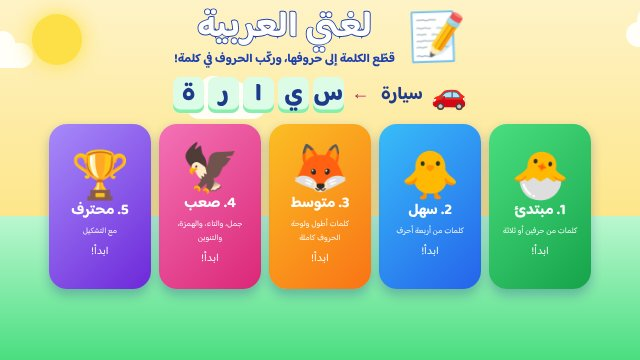
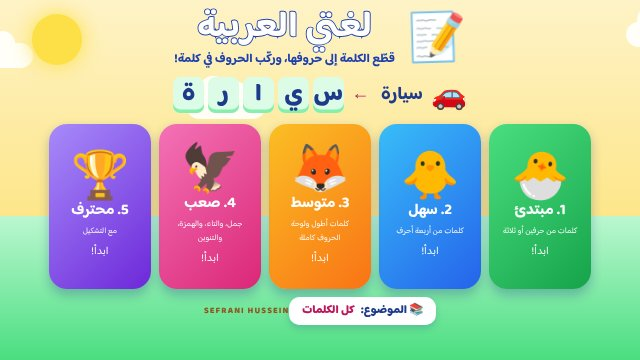
البند 59: مواضيع «لغتي العربية» و«كلماتي» و«أسماء عائلتي» واسم الصانع
- المواضيع: الأيام، الأشهر الميلادية والهجرية، الفصول والأوقات، الأماكن، الاتجاهات، الألوان، الأرقام، العائلة
- «كلماتي»: صور العائلة في مجلد اللعبة باسم الكلمة؛ تبقى بعد التحديث ولا تُحسب تعديلاً (bundled.USER_DIRS)
- «أسماء عائلتي»: اسم الطفل والأشخاص المسمَّون في الصور مع وجوههم
- SEFRANI HUSSEIN في الشاشة الأولى

Claude-Session: https://claude.ai/code/session_01ByJ6XoLmbzgjrffNWRRsuX

Changed region(s): [[0.3125, 0.825, 0.6875, 0.9167]]

diff --git a/home-nas/games/لغتي العربية/game.js b/home-nas/games/لغتي العربية/game.js
@@ -7,13 +7,15 @@
   "use strict";
   const GAME = "لغتي العربية";
   const D = window.LUGHATI;
-  const save = K.store("lughati", { best: {}, done: {}, lv: 0 });
+  const save = K.store("lughati", { best: {}, done: {}, lv: 0, topic: "all" });
+  const AUTHOR = "SEFRANI HUSSEIN";
 
   // ---------------------------------------------------------------- الحروف والتشكيل
   const MARKS = "ًٌٍَُِّْ";          // ً ٌ ٍ َ ُ ِ ّ ْ
   const isMark = (c) => MARKS.includes(c);
   const HAMZA = "أإآءؤئ";
   const BASIC = "ا ب ت ث ج ح خ د ذ ر ز س ش ص ض ط ظ ع غ ف ق ك ل م ن ه و ي ة ى".split(" ");
+  const ORDER = BASIC.concat([..."أإآءؤئ"]);
   const MARK_KEYS = ["َ", "ُ", "ِ", "ْ", "ّ", "ً", "ٌ", "ٍ"];
   const NAME = {
     "ا": "أَلِف", "ب": "بَاء", "ت": "تَاء", "ث": "ثَاء", "ج": "جِيم", "ح": "حَاء", "خ": "خَاء", "د": "دَال", "ذ": "ذَال",
@@ -64,6 +66,39 @@
     return out;
   }
 
+  // الصورة: رمز ملون، أو صورة حقيقية (كلماتي، ووجوه العائلة)
+  const pic = (w) => (w[1] && /^(\/|[^\s]+\.(jpe?g|png|webp|gif)$|كلماتي\/)/i.test(w[1])
+    ? `<img class="pic photo" src="${K.esc(w[1])}" alt="">` : `<span class="emo pic">${w[1] || "💬"}</span>`);
+
+  // ---------------------------------------------------------------- المواضيع (البند 59)
+  const TOPICS = [["all", "كل الكلمات", "📚"], ...Object.entries(D.topics).map(([k, t]) => [k, t.n, t.e]),
+    ["people", "أسماء عائلتي", "🙂"], ["mine", "كلماتي", "🖼"]];
+  const topicName = (id) => (TOPICS.find((t) => t[0] === id) || TOPICS[0])[1];
+  const okWord = (s) => /^[\u0621-\u064A\u064B-\u0652 ]+$/.test(s) && strip(s).replace(/ /g, "").length >= 2;
+  async function topicWords(id) {
+    if (D.topics[id]) return D.topics[id].words;
+    if (id === "mine") {        // صور في مجلد «كلماتي» داخل مجلد اللعبة، واسم الصورة هو الكلمة
+      const ims = await K.listImages("كلماتي");
+      return ims.map((x) => [x.name.replace(/\.[^.]+$/, "").replace(/[_-]+/g, " ").trim(), x.url]).filter((w) => okWord(w[0]));
+    }
+    if (id === "people") {      // اسم الطفل، والأشخاص الذين سمّاهم الأهل في «الصور ← الأشخاص»
+      const out = [];
+      try { const r = await fetch("/api/tv/home", { credentials: "same-origin" }); if (r.ok) { const n = ((await r.json()).user || {}).name || ""; const f = n.trim().split(/\s+/)[0]; if (okWord(f)) out.push([f, "⭐"]); } } catch {}
+      try { const r = await fetch("/api/tv/family/people?limit=30&faces=1", { credentials: "same-origin" });
+        if (r.ok) for (const x of (await r.json()).people || []) if (okWord(x.name.trim()) && !out.some((w) => w[0] === x.name.trim())) out.push([x.name.trim(), `/api/tv/face/${x.faces[0]}`]); } catch {}
+      return out;
+    }
+    return null;
+  }
+  function topics() {
+    K.begin();
+    K.paint(`<div class="top">${K.backBtn()}<h2 class="ttl">اختر الموضوع</h2><span></span></div>
+      <div class="topics">${TOPICS.map(([id, n, e]) => `<button class="topic f ${id === save.topic ? "on" : ""}" ${K.act("t-" + id, () => { save.topic = id; save.save(); K.back(); })}>
+        <span class="emo">${e}</span><b>${n}</b></button>`).join("")}</div>
+      <p class="tip">«كلماتي»: ضع صوراً في المجلد «كلماتي» داخل مجلد اللعبة (في «التعليم»)، واسم كل صورة هو الكلمة، مثل «جدّو.jpg».
+        «أسماء عائلتي»: اسم الطفل، والأشخاص الذين سمّيتموهم في تطبيق «الصور» ← «الأشخاص».</p>${K.HELP}`, "t-" + save.topic);
+  }
+
   // ---------------------------------------------------------------- الصوت
   const say = (t, rate = 0.8) => { if (t) K.tts(t, "ar", rate); };
   const report = (topic, ok) => {
@@ -80,12 +115,20 @@
       <div class="modes lv">${LEVELS.map((L, i) => `<button class="mode f" style="background:${L.bg}" ${K.act("l" + i, () => { save.lv = i; save.save(); K.show(lesson, i); })}>
         <span class="big emo">${L.e}</span><b>${i + 1}. ${L.n}</b><small>${L.sub}</small>
         <span class="best">${save.best[i] ? K.starsHtml(save.best[i]) : "ابدأ!"}</span></button>`).join("")}</div>
+      <div class="row2"><button class="btn f topic-btn" ${K.act("topic", () => K.show(topics))}><span class="emo">${(TOPICS.find((t) => t[0] === save.topic) || TOPICS[0])[2]}</span> الموضوع: <b>${topicName(save.topic)}</b></button>
+        <span class="author" dir="ltr">${AUTHOR}</span></div>
       ${K.HELP}`, "l" + (save.lv || 0));
   }
 
   // ---------------------------------------------------------------- الدرس: 10 أسئلة
-  function makeLesson(lv) {
+  function makeLesson(lv, tw) {
     const L = LEVELS[lv], Q = [];
+    if (tw) {                 // موضوع: قطّع وركّب بكلماته (التاء والهمزة والتنوين في «كل الكلمات» فقط)
+      const ws = take(tw, "t-" + save.topic, Math.min(10, tw.length));
+      while (ws.length < 10 && tw.length) ws.push(K.pick(tw));
+      ws.forEach((w, i) => Q.push({ t: i % 5 === 3 || i % 5 === 1 ? "join" : "spell", w }));
+      return K.shuffle(Q);
+    }
     if (!L.hard) {
       const ws = take(wordsFor(lv), "w" + lv, 10);
       ws.forEach((w, i) => Q.push({ t: i % 5 === 3 || i % 5 === 1 ? "join" : "spell", w }));
@@ -103,9 +146,26 @@
     return K.shuffle(Q).slice(0, 10);
   }
 
-  function lesson(lv) {
+  async function lesson(lv) {
     const L = LEVELS[lv];
-    const S = { lv, qs: makeLesson(lv), i: 0, score: 0, res: [] };
+    const topic = save.topic || "all";
+    let tw = null;
+    if (topic !== "all") {
+      K.begin(); K.paint(`<div class="top">${K.backBtn()}<span></span></div><h2 class="ask">جارٍ التحضير…</h2>`);
+      const shown = K.top();
+      tw = await topicWords(topic);
+      if (K.top() !== shown) return;
+      if (!tw || tw.length < 3) {
+        K.begin();
+        K.paint(`<div class="top">${K.backBtn()}<span class="pill">${K.esc(topicName(topic))}</span><span></span></div>
+          <h2 class="ask">لا توجد كلمات كافية في هذا الموضوع بعد 🙂</h2>
+          <p class="tip">${topic === "mine" ? "ضعوا صوراً في المجلد «كلماتي» داخل مجلد اللعبة (في «التعليم»)، واسم كل صورة هو الكلمة بالعربية، مثل «جدّو.jpg» أو «مطبخنا.jpg»."
+            : "سمّوا الأشخاص في تطبيق «الصور» ← «الأشخاص» على الهاتف أو الكمبيوتر، فتظهر أسماؤهم هنا مع صورهم."}</p>
+          <div class="nav"><button class="btn f go" ${K.act("tp", () => K.replace(topics))}>اختر موضوعاً آخر</button></div>`, "tp");
+        return;
+      }
+    }
+    const S = { lv, qs: makeLesson(lv, tw), i: 0, score: 0, res: [] };
     save.save();
     // الأزرار الإضافية في اليد: الأيسر (2) مساعدة، والعلوي (3) اسمع
     const held = { h: false, s: false };
@@ -151,7 +211,7 @@
       save.done[lv] = (save.done[lv] || 0) + 1;
       save.save();
       K.resultScreen({
-        s, score: S.score, total: S.qs.length, title: `لغتي العربية — المستوى ${lv + 1}`,
+        s, score: S.score, total: S.qs.length, title: `لغتي العربية — المستوى ${lv + 1}${topic !== "all" ? " · " + topicName(topic) : ""}`,
         again: () => K.replace(lesson, lv),
         next: lv < LEVELS.length - 1 ? { label: `المستوى ${lv + 2}`, fn: () => { save.lv = lv + 1; save.save(); K.replace(lesson, lv + 1); } } : null,
       });
@@ -165,20 +225,21 @@
       const sentence = word.includes(" ");
       // لوحة الحروف: صغيرة في المستويين 1 و2 (حروف الكلمة وحروف تشبهها)، وكاملة بعدهما
       let keys;
+      const need = [...new Set(G.map((g) => g.b).filter((c) => c !== " "))];
       if (L.keys) {
-        const need = [...new Set(G.map((g) => g.b))];
         const extra = K.shuffle([...new Set(need.flatMap(like).concat(K.shuffle(BASIC)))].filter((c) => !need.includes(c)));
-        keys = BASIC.filter((c) => need.includes(c) || extra.slice(0, L.keys - need.length).includes(c));
+        const pickd = extra.slice(0, Math.max(3, L.keys - need.length));
+        keys = ORDER.filter((c) => need.includes(c) || pickd.includes(c));
       } else {
         keys = BASIC.slice();
-        if (L.hard) keys.push(..."أإآءؤئ");
-        if (L.marks) keys.push(...MARK_KEYS);
-        if (sentence) keys.push(" ");
+        if (L.hard || need.some((c) => HAMZA.includes(c))) keys.push(..."أإآءؤئ");
       }
+      if (L.marks && G.some((g) => g.m.length)) keys.push(...MARK_KEYS);
+      if (sentence) keys.push(" ");
       const st = { g: 0, m: [], miss: 0, slotMiss: 0, helped: 0, hintOn: false, done: false };
-      K.paint(`${top(sentence ? "اكتب الجملة حرفاً حرفاً" : "اكتب حروف الكلمة")}
-        <div class="stage"><span class="emo pic">${q.w[1] || "💬"}</span><b class="word ${L.marks ? "marked" : ""}">${K.esc(word)}</b></div>
-        <div class="boxes ${G.length > 9 ? "long" : ""}">${G.map((g) => `<span class="box ${g.b === " " ? "sp" : ""}"></span>`).join("")}</div>
+      K.paint(`${top(sentence ? "اكتب حرفاً حرفاً (مع المسافة)" : "اكتب حروف الكلمة")}
+        <div class="stage">${pic(q.w)}<b class="word ${L.marks ? "marked" : ""}">${K.esc(word)}</b></div>
+        <div class="boxes ${G.length > 9 ? "long" : ""} ${G.length > 13 ? "xlong" : ""}">${G.map((g) => `<span class="box ${g.b === " " ? "sp" : ""}"></span>`).join("")}</div>
         <div class="keys ${keys.length <= 12 ? "few" : ""}">${keys.map((k, i) => `<button class="key f ${isMark(k) ? "mk" : ""} ${k === " " ? "space" : ""}" data-c="${k}" ${K.act("k" + i, () => type(k))}>${show(k)}</button>`).join("")}
           <button class="key f tool" ${K.act("del", erase)}>⌫</button><button class="key f tool help" ${K.act("help", help)}>💡</button></div>
         <div class="cheer"></div>`, "k0");
@@ -312,7 +373,7 @@
       K.begin();
       const st = { wrong: false, locked: false };
       K.paint(`${top(title)}
-        <div class="stage"><span class="emo pic">${q.w[1] || "💬"}</span>${middle}</div>
+        <div class="stage">${pic(q.w)}${middle}</div>
         <div class="opts ${opts.every((o) => strip(o).length <= 1) ? "small" : ""}">${opts.map((o, j) => `<button class="opt f" ${K.act("o" + j, (el) => pickOpt(j, el))}>${K.esc(o)}</button>`).join("")}</div>
         <div class="cheer"></div>`, "o0");
       S.listen = () => say(speak);

diff --git a/home-nas/games/لغتي العربية/words.js b/home-nas/games/لغتي العربية/words.js
@@ -58,3 +58,28 @@ window.LUGHATI = {
     ["قِطّ", "🐱"], ["نَجْم", "⭐"], ["بَحْر", "🌊"], ["كَلْب", "🐶"], ["جَبَل", "⛰"],
   ],
 };
+
+// مواضيع (البند 59): كلمات شائعة يختارها الطفل كموضوع للدرس
+window.LUGHATI.topics = {
+  days: { n: "أيام الأسبوع", e: "📅", words: [["الأَحَد", "📅"], ["الاِثْنَيْن", "📅"], ["الثُّلَاثَاء", "📅"], ["الأَرْبِعَاء", "📅"],
+    ["الخَمِيس", "📅"], ["الجُمُعَة", "🕌"], ["السَّبْت", "📅"]] },
+  months: { n: "الأشهر", e: "🗓", words: [["يَنَايِر", "❄"], ["فِبْرَايِر", "❄"], ["مَارِس", "🌱"], ["أَبْرِيل", "🌷"], ["مَايُو", "🌸"],
+    ["يُونْيُو", "☀"], ["يُولْيُو", "☀"], ["أَغُسْطُس", "🏖"], ["سِبْتَمْبَر", "🍂"], ["أُكْتُوبَر", "🍁"], ["نُوفَمْبَر", "🍂"], ["دِيسَمْبَر", "❄"]] },
+  hijri: { n: "الأشهر الهجرية", e: "🌙", words: [["مُحَرَّم", "🌙"], ["صَفَر", "🌙"], ["رَبِيع الأَوَّل", "🌙"], ["رَبِيع الآخِر", "🌙"],
+    ["جُمَادَى الأُولَى", "🌙"], ["جُمَادَى الآخِرَة", "🌙"], ["رَجَب", "🌙"], ["شَعْبَان", "🌙"], ["رَمَضَان", "🏮"], ["شَوَّال", "🌙"],
+    ["ذُو القَعْدَة", "🌙"], ["ذُو الحِجَّة", "🕋"]] },
+  times: { n: "الفصول والأوقات", e: "⏰", words: [["الشِّتَاء", "❄"], ["الرَّبِيع", "🌷"], ["الصَّيْف", "☀"], ["الخَرِيف", "🍂"],
+    ["الصَّبَاح", "🌅"], ["الظُّهْر", "🕛"], ["المَسَاء", "🌇"], ["اللَّيْل", "🌙"], ["اليَوْم", "📍"], ["أَمْس", "⏪"], ["غَدًا", "⏩"], ["سَاعَة", "⏰"]] },
+  places: { n: "الأماكن", e: "🏙", words: [["مَدْرَسَة", "🏫"], ["مَسْجِد", "🕌"], ["مُسْتَشْفَى", "🏥"], ["سُوق", "🛒"], ["حَدِيقَة", "🏞"],
+    ["مَطَار", "🛫"], ["مَكْتَبَة", "📚"], ["مَطْعَم", "🍽"], ["مَلْعَب", "🏟"], ["شَاطِئ", "🏖"], ["بَيْت", "🏠"], ["مَحَطَّة", "🚉"],
+    ["بَنْك", "🏦"], ["مَخْبَز", "🥖"], ["صَيْدَلِيَّة", "💊"], ["مَتْحَف", "🏛"], ["مَزْرَعَة", "🚜"], ["سِينَمَا", "🎬"]] },
+  dirs: { n: "الاتجاهات", e: "🧭", words: [["يَمِين", "➡"], ["يَسَار", "⬅"], ["فَوْق", "⬆"], ["تَحْت", "⬇"], ["أَمَام", "🚶"],
+    ["خَلْف", "🔙"], ["شَمَال", "🧭"], ["جَنُوب", "🧭"], ["شَرْق", "🌅"], ["غَرْب", "🌇"], ["دَاخِل", "📥"], ["خَارِج", "📤"],
+    ["قَرِيب", "🤏"], ["بَعِيد", "🔭"]] },
+  colors: { n: "الألوان", e: "🎨", words: [["أَحْمَر", "🔴"], ["أَزْرَق", "🔵"], ["أَخْضَر", "🟢"], ["أَصْفَر", "🟡"], ["أَبْيَض", "⚪"],
+    ["أَسْوَد", "⚫"], ["بُرْتُقَالِيّ", "🟠"], ["بَنَفْسَجِيّ", "🟣"], ["بُنِّيّ", "🟤"], ["وَرْدِيّ", "🌸"], ["رَمَادِيّ", "🩶"]] },
+  nums: { n: "الأرقام", e: "🔢", words: [["وَاحِد", "1⃣"], ["اِثْنَان", "2⃣"], ["ثَلَاثَة", "3⃣"], ["أَرْبَعَة", "4⃣"], ["خَمْسَة", "5⃣"],
+    ["سِتَّة", "6⃣"], ["سَبْعَة", "7⃣"], ["ثَمَانِيَة", "8⃣"], ["تِسْعَة", "9⃣"], ["عَشَرَة", "🔟"]] },
+  family: { n: "العائلة", e: "👨👩👧", words: [["أَب", "👨"], ["أُمّ", "👩"], ["أَخ", "👦"], ["أُخْت", "👧"], ["جَدّ", "👴"], ["جَدَّة", "👵"],
+    ["عَمّ", "🧔"], ["عَمَّة", "👩🦱"], ["خَال", "👨🦱"], ["خَالَة", "👱♀"], ["اِبْن", "👶"], ["زَوْج", "🤵"], ["زَوْجَة", "👰"]] },
+};

diff --git a/home-nas/games/لغتي العربية/style.css b/home-nas/games/لغتي العربية/style.css
@@ -56,3 +56,17 @@
 .cheer { min-height: 6vh; margin-top: 1.5vh; font-size: 4vh; text-align: center; color: #1e3a8a; }
 .cheer .why { font-size: 3vh; color: #9a3412; margin-top: .6vh; }
 .spelled { display: inline-block; margin-inline-start: 1.5vw; color: #16a34a; letter-spacing: .6vh; }
+/* البند 59: المواضيع، واسم الصانع، والصور الحقيقية */
+.row2 { display: flex; align-items: center; justify-content: space-between; margin-top: 2.2vh; padding: 0 1vw; }
+.topic-btn { font-size: 3.2vh; }
+.topic-btn b { color: #be185d; margin-inline-start: .6vw; }
+.author { font-size: 2.4vh; font-weight: 800; letter-spacing: .3vh; color: #92400e; opacity: .85; }
+.topics { display: grid; grid-template-columns: repeat(4, 21vw); gap: 1.6vh 1.4vw; justify-content: center; margin-top: 2.5vh; }
+.topic { height: 13vh; border: 0; border-radius: 2.5vh; background: #fff; color: #1e3a8a; display: flex; align-items: center; gap: 1.2vw; padding: 0 1.4vw;
+  font-size: 3.2vh; box-shadow: 0 .8vh 0 #a5b4fc; }
+.topic .emo { font-size: 6.5vh; }
+.topic.on { background: #fef3c7; box-shadow: 0 .8vh 0 #f59e0b; }
+.topic.f.sel { box-shadow: 0 0 0 .7vh #f97316, 0 1.2vh 2.4vh rgba(30,58,138,.35) !important; transform: scale(1.05); }
+.tip { text-align: center; font-size: 2.5vh; color: #7c2d12; max-width: 80vw; margin: 2vh auto 0; line-height: 1.6; }
+.pic.photo { width: 17vh; height: 17vh; object-fit: cover; border-radius: 3vh; box-shadow: 0 1vh 2vh rgba(30,58,138,.25); background: #fff; }
+.boxes.xlong .box { width: 5.6vh; height: 8vh; font-size: 4.4vh; }

diff --git a/home-nas/tests/test_item59.py b/home-nas/tests/test_item59.py
@@ -1,0 +1,33 @@
+"""البند 59: «لغتي العربية»: المواضيع (أيام، أشهر، أماكن، اتجاهات…)، و«كلماتي»، و«أسماء عائلتي»، واسم الصانع."""
+import json, subprocess, sys
+from pathlib import Path
+APP = Path(sys.argv[1]).resolve()
+ok = lambda c, m: print(("✅ " if c else "❌ ") + m) or c
+res = []
+G = APP / "games" / "لغتي العربية"
+js = subprocess.run(["node", "-e", f"""
+global.window = {{}}; require({json.dumps(str(G / 'words.js'))});
+const T = window.LUGHATI.topics, ok = (s) => /^[\\u0621-\\u064A\\u064B-\\u0652 ]+$/.test(s);
+const out = {{}};
+for (const [k, t] of Object.entries(T)) out[k] = {{ n: t.words.length, ok: t.words.every((w) => ok(w[0]) && w[1]) }};
+console.log(JSON.stringify(out));"""], capture_output=True, text=True)
+d = json.loads(js.stdout or "{}")
+need = {"days": 7, "months": 12, "hijri": 12, "places": 10, "dirs": 10, "colors": 8, "nums": 10, "family": 10, "times": 8}
+res.append(ok(all(k in d and d[k]["n"] >= v and d[k]["ok"] for k, v in need.items()), f"المواضيع وعدد كلماتها، وكلها حروف عربية مع صورة: { {k: v['n'] for k, v in d.items()} }"))
+g = (G / "game.js").read_text(encoding="utf-8")
+res.append(ok('K.listImages("كلماتي")' in g and (G / "كلماتي" / "اقرأني.txt").exists(), "«كلماتي»: صور مجلد «كلماتي» (واسم الصورة هو الكلمة)، والمجلد فيه شرح"))
+res.append(ok("/api/tv/family/people" in g and "/api/tv/face/" in g and "/api/tv/home" in g, "«أسماء عائلتي»: اسم الطفل والأشخاص المسمَّون مع صورهم"))
+res.append(ok('AUTHOR = "SEFRANI HUSSEIN"' in g and "${AUTHOR}" in g, "اسم الصانع في الشاشة الأولى"))
+res.append(ok(not list((G / "كلماتي").glob("*.jp*g")), "لا صور شخصية في المستودع"))
+# صور «كلماتي» لا تمنع تحديث اللعبة، وتبقى بعده
+import tempfile, shutil, os
+sys.path.insert(0, str(APP))
+from homenas import bundled
+t = Path(tempfile.mkdtemp()); a = t / "app"; shutil.copytree(G, a)
+f0 = bundled.fingerprint(a); (a / "كلماتي" / "جدو.jpg").write_bytes(b"x")
+res.append(ok(bundled.fingerprint(a) == f0, "صور «كلماتي» لا تُحسب تعديلاً على اللعبة (فتصلها التحديثات)"))
+new = t / "new"; shutil.copytree(G, new); old = t / "old"; a.rename(old)
+bundled._carry_user_dirs(old, new)
+res.append(ok((new / "كلماتي" / "جدو.jpg").exists(), "وبعد التحديث تبقى صور «كلماتي» في النسخة الجديدة"))
+shutil.rmtree(t, ignore_errors=True)
+print(f"\n{sum(res)}/{len(res)} نجح"); sys.exit(0 if all(res) else 1)

diff --git a/home-nas/homenas/bundled.py b/home-nas/homenas/bundled.py
@@ -19,6 +19,9 @@ from .core import RECYCLE, now_iso
 
 BUNDLE = Path(__file__).resolve().parent.parent / "games"
 SKIP_FILES = {"kit.js", "kit.css", "app.json"}   # kit يعطيها السيرفر بآخر نسخة، وapp.json قد يتغير نوعه عند النقل
+# البند 59: مجلدات تضع فيها العائلة محتواها داخل التطبيق (مثل «كلماتي» في «لغتي العربية»): لا تُحسب تعديلاً،
+# وتُنقل كما هي إلى النسخة الجديدة عند التحديث
+USER_DIRS = {"كلماتي"}
 STATE_KEY, STAMP_KEY = "bundled_apps", "bundled_stamp"
 
 
@@ -35,7 +38,8 @@ def fingerprint(d: Path) -> str:
     h = hashlib.sha1()
     try:
         files = sorted(p for p in d.rglob("*") if p.is_file() and p.name not in SKIP_FILES
-                       and not any(part.startswith(("#", "@", ".")) for part in p.relative_to(d).parts))
+                       and not any(part.startswith(("#", "@", ".")) for part in p.relative_to(d).parts)
+                       and p.relative_to(d).parts[0] not in USER_DIRS)
     except OSError:
         return ""
     for p in files:
@@ -82,6 +86,19 @@ def _to_recycle(share: Path, d: Path):
     if target.exists():
         target = rec / f"{d.name} ({time.strftime('%Y-%m-%d %H%M%S')})"
     d.rename(target)
+    return target
+
+
+def _carry_user_dirs(old: Path, new: Path):
+    """محتوى العائلة في التطبيق القديم (مثل صور «كلماتي») ينتقل إلى النسخة الجديدة."""
+    for n in USER_DIRS:
+        src = old / n
+        try:
+            if src.is_dir() and any(src.iterdir()):
+                shutil.rmtree(new / n, ignore_errors=True)
+                shutil.move(str(src), str(new / n))
+        except OSError:
+            pass
 
 
 def find(shares: dict, name: str) -> Path | None:
@@ -148,8 +165,9 @@ def seed(db, data_paths, root: Path = BUNDLE, force: bool = False) -> dict:
                 out["kept"].append(name)
             elif cur == state[name]:       # لم يغيّره أحد بعد أن وضعناه: نحدّثه
                 top = next(v for v in shares.values() if v == where.parent or v in where.parents)
-                _to_recycle(top, where)
+                old = _to_recycle(top, where)
                 _copy(app, where.parent / name)
+                _carry_user_dirs(old, where.parent / name)
                 state[name] = new
                 out["updated"].append(name)
             else:                          # غيّره المدير: نتركه

diff --git a/CLAUDE.md b/CLAUDE.md
@@ -6,7 +6,7 @@
 ## ابدأ من هنا (للجلسة الجديدة)
 - اقرأ القواعد أدناه أولاً، وردّ **بالعربي دائماً**.
 - **الحالة:** آخر إصدار منشور **v2.0** (2026-11-23). البنود الجديدة من 58 فصاعداً. قبل أول بند أضِف في أعلى `CHANGELOG.md` العنوان `## قيد التحضير (الإصدار القادم <الرقم>)` (يحتاجه `release.sh`)، والرقم التالي غالباً 2.0.1 (اسأل صاحب المشروع). الأجهزة تقارن الأرقام عددياً (`vtuple`، و«2.0» = (2,0)).
-- **بنود الإصدار القادم (2.0.1، رقم مقترح):** 58 (الصوت العربي)، ولعبة «لغتي العربية» الجديدة. (2.0 حمل البنود 51، 52، 53، 55، 56، 57.)
+- **بنود الإصدار القادم (2.0.1، رقم مقترح):** 58 (الصوت العربي)، ولعبة «لغتي العربية» الجديدة، و59 (مواضيعها). (2.0 حمل البنود 51، 52، 53، 55، 56، 57.)
 - **54 (تخفيف الإيزو) ملغى.**
 - **جرّبها صاحب المشروع وهي جيدة (2026-11-20):** 7، 10، 24، 31، 33، 36، 37، 40، 41، 46، 48، 49. **5 (CEC):** جهازه لا يدعم CEC في العتاد (يحتاج محوّل Pulse-Eight)، فلا عمل عليه. **مؤجل:** 3 (التوقيع).
 - **أسلوب الرد:** عند ذكر رقم بند اكتب اسمه تحته بالأحمر داخل مربع ```diff بسطر يبدأ بـ «- البند N: …».
@@ -116,6 +116,7 @@
 | 56 | HP ProDesk 405 G6 Mini (Ryzen 3 PRO 3200GE، Vega): «تعريف كرت الشاشة حتى يخرج الصوت من HDMI» ← الصوت يخرج من سماعة الجهاز لا التلفاز | ✅ التشخيص: `amdgpu` وملفات Picasso تعمل، والتلفاز SAMSUNG على `card0 eld#0.1` (HDMI 2، «موصول»)، لكن صوت HDMI كرت منفصل (HDA Generic في كرت AMD) والسماعة كرت آخر. السبب: `audio_pick` يبحث عن مخارج الكرت بـ`x.get("card")` و`pactl -f json list sinks` لا يكتب «card»، فلم يُضبط المخرج الافتراضي أبداً (في Lenovo كان يعمل صدفةً لأن HDMI والسماعة كرت واحد). الإصلاح: `card_sinks` (رقم كرت ALSA في الخصائص، أو `alsa_card.X` ← `alsa_output.X.*`، أو `device.name`) + `move-sink-input` للأصوات الجارية؛ `surround` في `tv_audio_status` ومخارج 5.1/7.1 مخفية في `soundSetScreen` و`tvadmin` (إلا المختار)؛ `HARMLESS_FW` (Optional firmware، iwl-debug-yoyo، ip_discovery، [Firmware Bug]) لا تظهر في «أخطاء التعريفات». اختبار `test_item56.py` (10، يفشل على الكود القديم). **ينتظر تجربة صاحب المشروع على HP** |
 | 57 | «هل يتصل النظام بأي جهة خارجية؟» ← لا يتصل وحده بأي جهة | ✅ الفحص: لا تُرسل بيانات للعائلة أبداً؛ الاتصالات التلقائية كانت: متصفح التلفاز ← Google (component updater، Safe Browsing، `clients2/time`، `ListAccounts`، GCM checkin، رغم `URLBlocklist`)، وتحديثات ديبيان اليومية (`20auto-upgrades`) و`apt-get update` في `install.sh` (أول تشغيل وكل تحديث)، والطقس (open-meteo كل 30 د). الإصلاح: `TV_PROXY` وسيط ميت `127.0.0.1:9` مع `--proxy-bypass-list=127.0.0.1;localhost;[::1]` (**لا `<-loopback>`: يمرّر السيرفر نفسه إلى الوسيط فلا تفتح صفحة التلفاز**) و`--disable-background-networking` وأخواتها في `CHROMIUM_FLAGS` (تعمل بعد التحديث مباشرة) + `ProxySettings` و`ComponentUpdatesEnabled:false`… في سياسات `tv_write`. `install.sh`: لا `apt-get` إذا كانت `PKGS` كلها مثبتة (الإيزو فيه كلها)، و`20auto-upgrades` = `/etc/homenas/auto-updates` (افتراضياً 0). `tv_weather` افتراضياً 0. لوحة التحكم ← الجهاز ← «الوقت والعمل بدون إنترنت»: «تحديثات الأمان التلقائية» (`hsef-extras auto-updates`، `/api/admin/auto-updates`، `auto_updates` في `sys-status`) و«الطقس على التلفاز» (`/api/admin/weather`). يبقى عند الطلب فقط: فحص التحديث (GitHub)، وMawaqit، والتعريفات والتطبيقات، وTailscale. اختبار `test_item57.py` (11، فيه تشغيل Chromium حقيقي 45 ث بسجل الشبكة: صفحة التلفاز تُفتح ولا اتصال خارج الجهاز). **جُرّب على Chromium for Testing لا Chromium ديبيان** |
 | 58 | صوت عربي آلي للألعاب والدروس بلا إنترنت (طلبه صاحب المشروع للعبة «لغتي العربية») | ✅ `homenas/tts.py` (`GET /api/tv/tts?t=&r=`، espeak-ng `-v ar`، ذاكرة مؤقتة `cache/tts`، 404 بلا espeak) + `espeak-ng` في `PKGS` و`build-installer-iso.sh` + `K.tts` في `kit.js` يطلب صوت السيرفر عند غياب الصوت العربي (منسوخ إلى `static/kit` و46 لعبة). اختبار `test_item58.py`. **صوت آلي: يحتاج سماعه على الجهاز** |
+| 59 | «لغتي العربية»: مواضيع (أيام، أشهر ميلادية وهجرية، فصول وأوقات، أماكن، اتجاهات، ألوان، أرقام، عائلة)، و«كلماتي» (صور العائلة باسم الكلمة)، و«أسماء عائلتي» (اسم الطفل والأشخاص المسمَّون)، واسم الصانع SEFRANI HUSSEIN | ✅ `LUGHATI.topics` في `words.js`، و`topics()`/`topicWords()`/`pic()` في `game.js` (`K.listImages("كلماتي")`، `/api/tv/family/people`، `/api/tv/home`)، و`bundled.USER_DIRS` + `_carry_user_dirs` (صور «كلماتي» لا تُحسب تعديلاً وتنتقل مع التحديث). اختبار `test_item59.py` |
 
 نصيحة صاحب المشروع: تقسيم البنود الكبيرة على أكثر من إصدار.
 بنود العتاد (4، 8) تُجرَّب على جهاز صاحب المشروع.
@@ -159,3 +160,4 @@
 - **2026-11-21:** البند 56 (صوت التلفاز من سماعة جهاز HP 405 G6) من صورة «تشخيص الأجهزة» التي أرسلها صاحب المشروع.
 - **2026-11-23:** فحص «هل يتصل النظام بأي جهة خارجية؟» ← البند 57 (PR #84) مع خياري «تحديثات الأمان التلقائية» و«الطقس على التلفاز» في لوحة التحكم بطلب صاحب المشروع، ثم نُشر **v2.0** (PR #85) وحُذفت كل الإصدارات والوسوم السابقة. تنبيه: تجربتي بسياسات Chromium في هذه البيئة تكتب في `/etc/opt/chrome_for_testing/policies/managed` (Chrome for Testing لا يقرأ `/etc/chromium`)، فاحذف الملف بعدها وإلا أفسد `test_item57.py`.
 - **2026-11-25:** لعبة «لغتي العربية» (تعليمية، 5 مستويات، `games/لغتي العربية`) بطلب صاحب المشروع، واختار من الإضافات: الصور (إيموجي)، والتاء والهمزة والتنوين، و«صوت آلي الآن» ← البند 58. جُرّبت المستويات 1 و4 و5 آلياً في Chrome مع `mock.py`. لم يُنشر.
+- **2026-11-25 (المساء):** البند 59: مواضيع «لغتي العربية» واسم الصانع، بطلب صاحب المشروع (اختار: كلماتي، وأسماء العائلة، والكلمات الشائعة: الأيام والأشهر، والأماكن والاتجاهات). جُرّبت 5 مواضيع آلياً في Chrome. لم يُنشر.

diff --git a/home-nas/CHANGELOG.md b/home-nas/CHANGELOG.md
@@ -7,6 +7,7 @@
 
 - 📝 **لعبة تعليمية جديدة «لغتي العربية»** (نجمة عند إنهاء كل درس، من 6 إلى 18 سنة): يقطّع الطفل الكلمة إلى حروفها (🚗 سيارة ← س ي ا ر ة)، ويركّب الحروف المتفرقة في كلمة، ويميّز التاء المربوطة من المفتوحة، وشكل الهمزة، والتنوين. خمسة مستويات من «مبتدئ» إلى «محترف» مع التشكيل، وصورة لكل كلمة، ومساعدة (💡 يضيء الحرف المطلوب، ثم يكتبه)، وبالريموت ويد التحكم ولوحة المفاتيح.
 - 🔊 **صوت عربي آلي للألعاب والدروس** (البند 58): متصفح التلفاز بلا صوت عربي، فصار السيرفر ينطق الكلمات بلا إنترنت (espeak-ng)، وكل الألعاب التي تستعمل `K.tts` تتكلم العربية. الصوت آلي وليس صوتاً بشرياً.
+- 📝 **«لغتي العربية»: المواضيع** (البند 59): زر «الموضوع» في الشاشة الأولى: كل الكلمات، أيام الأسبوع، الأشهر، الأشهر الهجرية، الفصول والأوقات، الأماكن، الاتجاهات، الألوان، الأرقام، العائلة، و«أسماء عائلتي» (اسم الطفل والأشخاص الذين سمّيتموهم في «الصور» مع صورهم)، و«كلماتي» (صوركم في المجلد «كلماتي» داخل اللعبة، واسم الصورة هو الكلمة، وتبقى بعد كل تحديث). واسم الصانع SEFRANI HUSSEIN في الشاشة الأولى.
 
 ## v2.0
 
